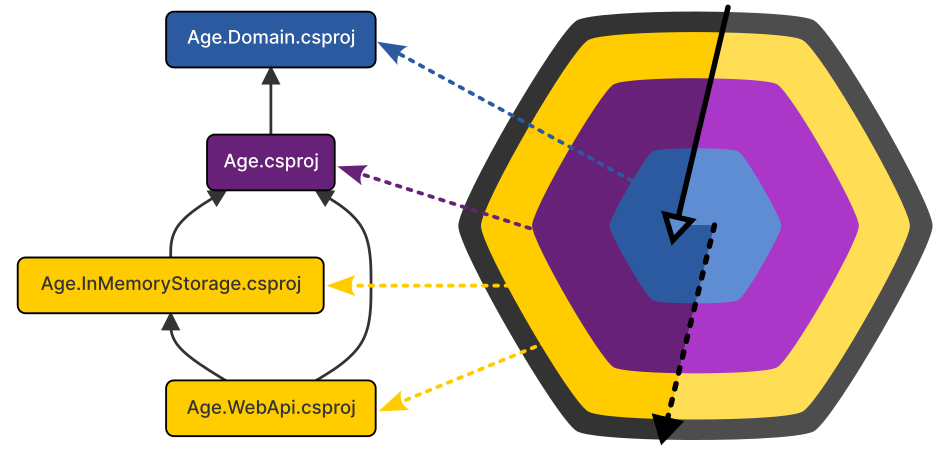
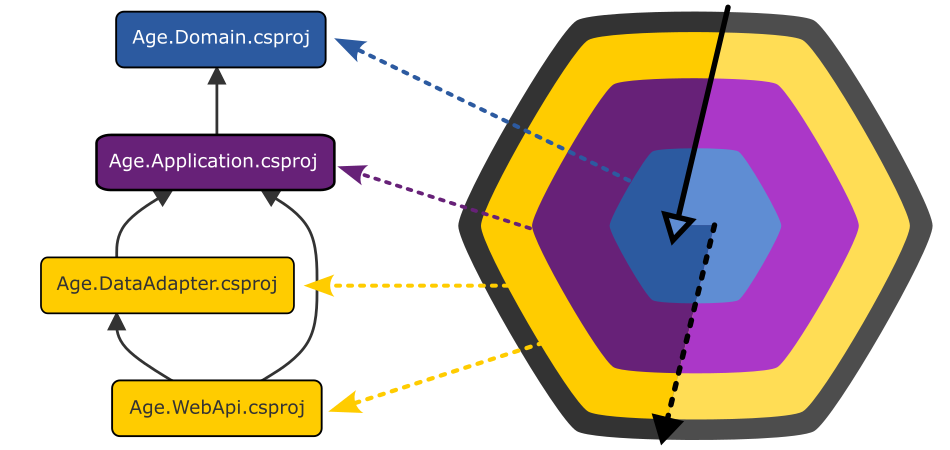
Refatora textos de documentação, exemplos, imagens e gráficos

diff --git a/samples/AgeProject/src/Age.WebApi/Usings.cs b/samples/AgeProject/src/Age.WebApi/Usings.cs
@@ -1,8 +1,12 @@
 global using System;
 global using System.Collections.Generic;
 global using System.Linq;
+global using System.Net.Http.Json;
 
 global using Microsoft.AspNetCore.Builder;
+global using Microsoft.AspNetCore.Http;
+global using Microsoft.AspNetCore.Routing;
+global using Microsoft.Extensions.Configuration;
 global using Microsoft.Extensions.DependencyInjection;
 global using Microsoft.Extensions.Hosting;
 global using Microsoft.Extensions.Logging;

diff --git a/docs/articles/engineering-guidelines/thecheanarch-style.md b/docs/articles/engineering-guidelines/thecheanarch-style.md
@@ -1,6 +1,6 @@
 # Estilo _The Clean Arch_
 
-Antes de continuar, queremos estabelecer primeiro algumas recomendações sobre a codificação de soluções .NET no estilo _"The Clean Arch"_. Vamos falar de pequenos detalhes como: estrutura de diretórios, arquivos de configuração, manuseio de Data/Hora, escrever testes, e outros. Alguns você já conhece se passou pelo [guia de início rápido](../getting-started/create-solution-structure.md), mas queremos consolidá-los nessa seção.
+Antes de continuar, queremos estabelecer primeiro algumas recomendações sobre a codificação de soluções [.NET][DOTNET] no estilo _"The Clean Arch"_. Vamos falar de pequenos detalhes como: estrutura de diretórios, arquivos de configuração, manuseio de Data/Hora, escrever testes, e outros. Alguns você já conhece se passou pelo [guia de início rápido](../getting-started/create-solution-structure.md), mas queremos consolidá-los nessa seção.
 
 Conhecer esses detalhes lhe ajudará a se familiarizar e reconhecer projetos no estilo _"The Clean Arch"_. Então você pode encarar essas recomendações como parte da arquitetura, e compreende o _"Estilo The Clean Arch"_ de codificar.
 
@@ -9,9 +9,9 @@ Conhecer esses detalhes lhe ajudará a se familiarizar e reconhecer projetos no 
 A primeira coisa a se fazer é organizar o diretório de solução para conter nosso código, e você precisa entender alguns detalhes.
 
 > [!IMPORTANT]
-> Quando falamos: **"solução"**, estamos nos referindo ao projeto de software (aquele que tem tipicamente um repositório que armazenamos no [GitHub](https://github.com) por exemplo). Temos os arquivos de projeto do .NET (`*.csproj`, `*.fsproj`, `*.vbproj`), a esses chamamos de **projeto** e as vezes _componente_. A **solução** sempre é o projeto geral do sofware, o repositório Git ou o diretório raiz que contém todo nosso código de software.
+> Quando falamos: **"solução"**, estamos nos referindo ao projeto de software (aquele que tem tipicamente um repositório que armazenamos no [GitHub](https://github.com) por exemplo). Temos os arquivos de projeto do [.NET][DOTNET] (`*.csproj`, `*.fsproj`, `*.vbproj`), a esses chamamos de **projeto** e as vezes _componente_. A **solução** sempre é o projeto geral do sofware, o repositório Git ou o diretório raiz que contém todo nosso código de software.
 
-Essa é a estrutura de diretório para nossas soluções de software .NET:
+Essa é a estrutura de diretório para nossas soluções de software [.NET][DOTNET]:
 ```
 ./solution-folder
   ├─ .config/
@@ -23,7 +23,7 @@ Essa é a estrutura de diretório para nossas soluções de software .NET:
   ├─ test/
   ├─ .editorconfig
   ├─ .gitignore
-  ├─ {Solution}.sln
+  ├─ {Solution}.slnx
   ├─ global.json
   ├─ nuget.config
   └─ omnisharp.json
@@ -31,7 +31,7 @@ Essa é a estrutura de diretório para nossas soluções de software .NET:
 
 Ententendo:
 
-* Arquivo de manifesto para ferramentas .NET `.config/dotnet-tools.json`
+* Arquivo de manifesto para ferramentas [.NET][DOTNET] `.config/dotnet-tools.json`
 * Diretório de documentação da solução `docs/`
 * Diretório de programas de engenharia `eng/`
 * Diretório de amostras `samples/`
@@ -39,8 +39,8 @@ Ententendo:
 * Diretório de testes de componentes `test/`
 * Arquivo de configurações do editor `.editorconfig`
 * Arquivo de definições [Git](https://git-scm.com) para ignorar arquivos `.gitignore`
-* Arquivo geral da solução `{Solution}.sln` (aqui o nome é o da sua solução)
-* Arquivo com configurações globais .NET para a solução `global.json`
+* Arquivo geral da solução `{Solution}.slnx` (aqui o nome é o da sua solução)
+* Arquivo com configurações globais [.NET][DOTNET] para a solução `global.json`
 * Arquivo com configurações globais [NuGet](https://nuget.org) para a solução `nuget.config`
 * Arquivo de definições do [Omnisharp][OMNISHARP] `omnisharp.json`
 
@@ -61,19 +61,18 @@ Portanto, em uma solução nos padrões _The Clean Arch_, temos:
 
 O arquivo geral da solução deve ser nomeado com o nome do projeto de software, porém sem espaços ou caracteres especiais, e obedecendo ao padrão [UpperCamelCase][CAMELCASE].
 
-Exemplo: Para um projeto de software chamado _"Árvore Genealógica"_, o arquivo de solução seria `ArvoreGenealogica.sln`.
+Exemplo: Para um projeto de software chamado _"Árvore Genealógica"_, o arquivo de solução seria `ArvoreGenealogica.slnx`.
 
 > [!NOTE]
 > O próprio projeto de software pode ser apenas um módulo de um projeto maior, ou seja, um subprojeto.
 > Ou ainda, pode ser uma companhia (empresa, grupo ou comunidade) que produz vários projetos de software relacionados.
 > Nestes casos é recomendado usar o nome do projeto principal ou da companhia como prefixo do nome do projeto.
-> Separe o prefixo do nome com um ponto. Ex: `MyProject.MySubproject.sln` ou `MyCompany.MyProject.sln`.
+> Separe o prefixo do nome com um ponto. Ex: `MyProject.MySubproject.slnx` ou `MyCompany.MyProject.slnx`.
 
-O componente (projeto .NET) principal da solução (a camada de aplicação) leva o mesmo nome do arquivo geral da solução, pois representa a aplicação em si. Ex: `ArvoreGenealogica.csproj` para um projeto C#.
-
-Os demais componentes devem ser nomeados com o nome da solução como prefixo, seguido do nome do componente (que muitas vezes reflete a camada do sofware codificada), como `[Prefixo].Componente`.
+Os componentes devem ser nomeados com o nome da solução como prefixo, seguido do nome do componente (que muitas vezes reflete a camada do sofware codificada), como `[Prefixo].Componente`.
 
 Exemplos:
+* `ArvoreGenealogica.Application`
 * `ArvoreGenealogica.Domain`
 * `ArvoreGenealogica.WebApi`
 * `ArvoreGenealogica.Cli`
@@ -86,6 +85,7 @@ Exemplos:
 Os arquivos de teste devem levar o mesmo nome do componente alvo mais o sufixo `Tests`, porém sem um ponto o separando do nome, como `[ComponenteAlvo]Tests`.
 
 Exemplos:
+* `ArvoreGenealogica.ApplicationTests`
 * `ArvoreGenealogica.DomainTests`
 * `ArvoreGenealogica.WebApiTests`
 * `ArvoreGenealogica.CliTests`
@@ -108,3 +108,4 @@ Nos próximos passos você verá ainda mais alguns detalhes sobre nosso estilo d
 [LICENSE]: https://github.com/Hibex-Solutions/TheCleanArch/blob/main/LICENSE
 [CAMELCASE]: https://en.wikipedia.org/wiki/Camel_case
 [OMNISHARP]: https://www.omnisharp.net/
+[DOTNET]: https://dot.net

diff --git a/docs/articles/overview/the-image.md b/docs/articles/overview/the-image.md
@@ -1,6 +1,6 @@
 # A Imagem
 
-Aqui temos a imagem que define o projeto _"The Clean Arch"_. Ela foi criada não apenas para ser usada como uma logo ou ícone, mas como um diagrama que reflete os pontos fundamentais da arquitetura em si. Olhando para ela você deve perceber rapidamente as regras da arquitetura. Ela é um guia da arquitetura em forma de imagem, afinal, _uma imagem não vela mais que mil palavras?_
+Aqui temos a imagem que define o projeto _"The Clean Arch"_. Ela foi criada não apenas para ser usada como uma logo ou ícone, mas como um diagrama que reflete os pontos fundamentais da arquitetura. Olhando para ela você deve perceber rapidamente as regras da arquitetura. Ela é um guia da arquitetura em forma de imagem, afinal, _uma imagem não vela mais que mil palavras?_
 
 ![Imagem guia "The Clean Arch"](../../images/TheCleanArchLogoSmall.png)
 
@@ -14,23 +14,24 @@ Vamos então endender alguns detalhes dessa imagem para que você a possa ter em
 
 Nem todos os pontos desta imagem ficam claros aos leitores, mas ela também foi feita para ser vista como um guia. Aqui temos as camadas em níveis da [Onion Architecture][ONION_PAGE], a regra de dependência explicitada, tanto na comunicação direta para o centro através das setas, quanto a comunicação indireta através de portas e adaptadores da [Hexagonal Architecture][HEXAGONAL_PAGE], além da nomeação das camadas principais da arquitetura.
 
-Se isso não estiver claro, talvez devesse dedicar um tempinho a mais no entendimento tanto do artigo quanto dos links relacionados nele, e que falam sobre as outras definições de arquitetura.
+Se isso não estiver claro, talvez devesse dedicar um tempinho a mais no entendimento tanto do artigo quanto dos _links_ relacionados nele, e que falam sobre as outras definições de arquitetura.
 
 ## Simplificação da imagem
 
-Nós procuramos simplificar essa imagem para que seja mais prático olhar para ela e perceber esses detalhes. Então partimos da imagem original, mas para isso removemos alguns detalhes dela e chegamos a essa imagem como sendo o ponto mais importante na imagem do artigo original:
+Nós procuramos simplificar essa imagem para que seja mais prático olhar para ela e perceber esses detalhes. Então partimos da imagem original, mas para isso removemos alguns detalhes dela e chegamos a essa imagem como sendo o ponto mais importante do artigo original:
 
 ![The Clean Architecture resume image](../../images/TheCleanArchitectureOriginalSmall.png)
 
-Esse imagem acima talvez seja o resumo da _Arquitetura Limpa_ conforme a maioria se baseia para implementar. Mas por ironia ela acaba referenciando quase que diretamente uma das definições que se conhece e que o _Uncle Bob_ se baseou. Estou falando da [_Onion Architecture (arquitetura cebola)_][ONION_PAGE], e acaba deixando de fora alguns outros detalhes que nós entendemos muito importantes.
+Essa imagem anterior talvez seja o resumo da _Arquitetura Limpa_ conforme a maioria se baseia para implementar. Mas por ironia ela acaba referenciando quase que diretamente uma das definições que se conhece e que o _Uncle Bob_ se baseou. Estou falando da [_Onion Architecture (arquitetura cebola)_][ONION_PAGE], e acaba deixando de fora alguns outros detalhes que nós entendemos muito importantes.
 
-Ela também não é completa, está faltando essa outra imagem, que na verdade está presente em um cantinho da imagem original.
+Ela também não é completa, está faltando essa outra imagem, que na verdade está presente em um cantinho na imagem original.
 
 ![](../../images/TheCleanArchitectureBlogImageCorner.png)
 
 Ela representa a comunicação indireta entre as camadas internas com as camadas externas através de portas e adaptadores descritas pelas definições da [Hexagonal Architecture][HEXAGONAL_PAGE], também conhecida como _Ports and Adapters_.
 
-Então o que fizemos foi simplificar a imagem nessa aqui, que reune essas duas primeiras imagens em uma única imagem:
+Então o que fizemos foi uní-las ([_Onion Architecture_][ONION_PAGE] + [Hexagonal Architecture][HEXAGONAL_PAGE]), e
+obtemos agora uma única imagem que tenta representar ambos os conceitos:
 
 ![The Clean Arch with original colors](../../images/TheCleanArchLogo-OriginalColorsSmall.png).
 
@@ -42,9 +43,9 @@ Por fim mudamos as cores porque temos gostos diferentes (kkk), e então chegamos
 
 Você deve olhar para essa imagem e perceber as seguintes regras arquiteturais base:
 
-1) Existem camadas dispostas concentricamente (como define "Onion Architecture")
+1) Existem camadas dispostas concentricamente (como define [_Onion Architecture_][ONION_PAGE])
 2) É permitida a comunicação direta das camadas mais externas em direção ao centro
-3) A comunicação partindo do centro às extremidades é feita de forma indireta (como define "Hexagonal Architecture")
+3) A comunicação partindo do centro às extremidades é feita de forma indireta (como define [Hexagonal Architecture][HEXAGONAL_PAGE])
 4) As camadas são identificadas pelas cores relacionadas a seus nomes
 
 Esses são os nomes e cores das camadas como as definimos, partindo do centro para a extremidade:

diff --git a/docs/articles/getting-started/create-solution-structure.md b/docs/articles/getting-started/create-solution-structure.md
@@ -1,6 +1,6 @@
 # 1. Crie a estrutura da solução
 
-A maneira mais prática de usar _The Clean Arch_ é criar uma solução nos moldes que se propõe. Então aqui iremos criar uma solução .NET em camadas para que você esteja apto a conhecer melhor cada componente da arquitetura em seus detalhes.
+A maneira mais prática de usar _The Clean Arch_ é criar uma solução nos moldes que se propõe. Então aqui iremos criar uma solução [.NET][DOTNET] em camadas para que você esteja apto a conhecer melhor cada componente da arquitetura em seus detalhes.
 
 À partir de agora vamos trabalhar tendo em mente uma aplicação para controle de nossa [árvore genealógica.][ARVORE_GENEALOGICA]. A princípio vamos trabalhar na construção de uma _API Web_, mas poderia ser qualquer outro tipo de aplicação. Vamos então chamar nossa solução de _"Árvore Genealógica"_, a que podemos usar o _token_ _"ArvoreGenealogica"_ para identificar ou ainda _"Age"_ para ser mais curto.
 
@@ -34,8 +34,8 @@ Crie alguns arquivos essenciais. Configuração [NuGet][NUGET], [Git][GIT], [edi
 
 
 ```sh
-dotnet new nugetconfig
 dotnet new globaljson --sdk-version "10.0.100" --roll-forward feature
+dotnet new nugetconfig
 dotnet new gitignore
 dotnet new editorconfig
 dotnet new tool-manifest
@@ -74,7 +74,7 @@ dotnet new classlib -n Age.Domain -o src/Age.Domain
 ```
 
 ### Application
-Nossa camada de regras de aplicação se chamará **Age** apenas, porque é a aplicação em si.
+Nossa camada de regras de aplicação se chamará **Age.Application**.
 ```sh
 dotnet new classlib -n Age.Application -o src/Age.Application
 ```
@@ -84,7 +84,7 @@ dotnet new classlib -n Age.Application -o src/Age.Application
 > [!NOTE]
 > Os adaptadores de interface podem ser tantos quanto você precisar. Aqui usaremos apenas 2 componentes adaptadores: 1) a camada de apresentação como um adaptador de interface para entrada dos dados, e 2) a camada de acesso a dados como adaptador de interface para saída de dados.
 
-Um adaptador de interface para armazenamento de dados chamado **Age.DataAdapter** e um adaptador de interface para API Web chamado **Age.WebApi**.
+Um adaptador de interface para armazenamento de dados chamado **Age.DataAdapter** e um adaptador de interface para _API Web_ chamado **Age.WebApi**.
 
 ```sh
 dotnet new classlib -n Age.DataAdapter -o src/Age.DataAdapter
@@ -96,10 +96,10 @@ Agora vamos relacionar esses projetos entre si de acordo com suas dependências.
 ```mermaid
 flowchart BT
 
-Application(Age.Application.csproj)
-Domain(Age.Domain.csproj)
-DataAdapter(Age.DataAdapter.csproj)
-WebApi(Age.WebApi.csproj)
+Application(Age.Application)
+Domain(Age.Domain)
+DataAdapter(Age.DataAdapter)
+WebApi(Age.WebApi)
 
 
 Application --> Domain
@@ -109,15 +109,15 @@ WebApi --> DataAdapter
 ```
 
 ```sh
-dotnet add src/Age.Application/Age.Application.csproj reference src/Age.Domain/Age.Domain.csproj
-dotnet add src/Age.DataAdapter/Age.DataAdapter.csproj reference src/Age.Application/Age.Application.csproj
 dotnet add src/Age.WebApi/Age.WebApi.csproj reference src/Age.DataAdapter/Age.DataAdapter.csproj
 dotnet add src/Age.WebApi/Age.WebApi.csproj reference src/Age.Application/Age.Application.csproj
+dotnet add src/Age.DataAdapter/Age.DataAdapter.csproj reference src/Age.Application/Age.Application.csproj
+dotnet add src/Age.Application/Age.Application.csproj reference src/Age.Domain/Age.Domain.csproj
 ```
 
 ## Arquivo de solução
 
-Por fim, vamos reunir todos os componentes em um arquivo de solução .NET.
+Por fim, vamos reunir todos os componentes em um arquivo de solução [.NET][DOTNET].
 
 ```sh
 dotnet new sln -n Age -f slnx
@@ -159,12 +159,12 @@ Agora veja como a relação entre o gráfico de dependências de nossos projetos
 
 ![Visão The Clean Arch](../../images/getting-started/thecleanarch-and-layers.png)
 
-Meus parabéns :clap: :clap: !!! Você acaba de criar um esboço de solução .NET de arquitetura limpa de acordo com _"The Clean Arch"_ :wink:.
+Meus parabéns! Você acaba de criar um esboço de solução [.NET][DOTNET] com arquitetura limpa de acordo com _"The Clean Arch"_ :wink:.
 
 > [!TIP]
 > Veja um [exemplo completo dessa solução no GitHub][AGE_SAMPLE_GITHUB]
 
-Óbvio que isso não é tudo. Porém o primeiro passo para que você desenvolva de acordo com uma definição de _"Arquitetura Limpa"_, é estruturar seu projeto de software de forma a codificar nas camadas corretas e que essas camadas estejam dispostas de forma a seguir os princípios estabelecidos por _"The Clean Arch"_. Você aprenderá mais nos próximos passos.
+Óbvio que isso não é tudo. Porém o primeiro passo para que você desenvolva de acordo com uma definição de _"Arquitetura Limpa"_ é estruturar seu projeto de software de forma a codificar nas camadas corretas e que essas camadas estejam dispostas de forma a seguir os princípios estabelecidos por _"The Clean Arch"_. Você aprenderá mais nos próximos passos.
 
 [ARVORE_GENEALOGICA]: https://pt.wikipedia.org/wiki/%C3%81rvore_geneal%C3%B3gica
 [DOTNET]: https://dot.net

diff --git a/docs/articles/overview/introduction.md b/docs/articles/overview/introduction.md
@@ -4,20 +4,20 @@ O termo _Clean Architecture_ (Arquitetura Limpa) foi cunhado inicialmente por _R
 
 Vale ressaltar que _Uncle Bob_ se vale da definição e trabalhos feitos por outras pessoas como _Alistair Cockburn_ e sua [Hexagonal Architecture][HEXAGONAL_PAGE] (também conhecida como _Ports and Adapters_), ou _Jeffrey Palermo_ e a [Onion Architecture][ONION_PAGE]. _Uncle Bob_, concordando com os pontos de vista desses e de outros também ([veja as menções no próprio artigo][BLOG_POST]), acrescenta suas próprias ideias como [Screaming Architecture][SCREAMING_POST], além de resumir bem todas elas juntas nesse [compilado que postou em seu blog][BLOG_POST]. Você vai encontrar mais detalhes ainda sobre o assunto no livro do próprio _Uncle Bob_ entitulado [_"Arquitetura Limpa - O Guia do Artesão para Estrutura e Design de Software"_][BOOK_AMAZON], e lá você encontra o restante das informações que precisa.
 
-O fato é que essas ideias são a base para o que implementamos aqui no projeto _"The Clean Arch"_. Pretendemos ser um ponto de partida seguro, e quiçá uma referência para você implementar seus softwares sob esses fundamentos no que diz respeito a arquitetura de software. Inicialmente focado em [.NET][DOTNET], mas pretendemos expandir para outras tecnologias, porque entendemos que o conceito é independente de tecnologia.
+O fato é que essas ideias são a base para o que implementamos aqui no projeto _"The Clean Arch"_. Pretendemos ser um ponto de partida seguro, e talvez uma referência para você implementar seus softwares sob esses fundamentos no que diz respeito a arquitetura de software. Inicialmente focado em [.NET][DOTNET], mas pretendemos expandir para outras tecnologias, porque entendemos que o conceito é independente de tecnologia.
 
-Sabemos que existem inúmeras implementações já disponíveis na Web. Sabemos também que existem muitas formas de fazer a mesma coisa, e uma não torna a outra incorreta, apenas são diferentes entre si. Não podemos deixar de mencionar que  existem muitos equívocos em algumas implementações que estão disponíveis também, mas a grande maioria está de acordo com os princípios. Talvez cometamos alguns equívocos aqui também em nossas definições, mas estamos prontos a voltar atrás e corrigir o que for necessário, logo, esteja à vontade para nos ajudar com isso.
+Sabemos que existem inúmeras implementações já disponíveis na _Web_. Sabemos também que existem muitas formas de fazer a mesma coisa, e uma não torna a outra incorreta, apenas diferentes. Não podemos deixar de mencionar que  existem muitos equívocos em algumas implementações que estão disponíveis também, mas a grande maioria está de acordo com os princípios. Talvez cometamos alguns equívocos aqui também em nossas definições, mas estamos prontos a voltar atrás e corrigir o que for necessário, logo, esteja à vontade para nos ajudar com isso.
 
 Podemos concordar então que o projeto _"The Clean Arch"_ é apenas mais uma dessas implementações. Talvez o que tenhamos de diferente seja o fato de que queremos disponibilizar essa implementação da seguinte forma:
 
 1) Totalmente _Open Source_
 2) Uma documentação como _Guia_
 3) Um conjunto _Mínimo de Bibliotecas_ para viabilizar a implementação
-4) Um conjunto de _Ferramentas_ para verificações
+4) Um conjunto de _Ferramentas_ para validações
 
 Então resumimos o projeto _"The Clean Arch"_ como um **Guia Open Source com Mínimo de Bibliotecas e Ferramentas** para implementar _"The Clean Architecture"_ conforme _Uncle Bob_ definiu em seu artigo.
 
-Então seja bem vindo(a) a documentação para _"The Clean Arch"_, aqui você aprenderá tanto a usar as bibliotecas e as ferramentas do projeto, quanto aprenderá sobre _"Arquitetura Limpa"_ em si. Aprecie o conteúdo sem moderação!
+Então seja bem vindo(a) a documentação _"The Clean Arch"_, aqui você aprenderá tanto a usar as bibliotecas e as ferramentas do projeto, quanto aprenderá sobre _"Arquitetura Limpa"_. Aprecie o conteúdo sem moderação!
 
 <!-- links -->
 [BLOG_POST]: https://blog.cleancoder.com/uncle-bob/2012/08/13/the-clean-architecture.html

diff --git a/docs/articles/engineering-guidelines/time-abstraction.md b/docs/articles/engineering-guidelines/time-abstraction.md
@@ -3,7 +3,7 @@
 À partir do [.NET 8][NET8] [a abstração de tempo][NET8-TIMEABSTRACTION] foi incorporada ao framework, não havendo mais necessidade de usar abstrações próprias.
 
 As bibliotecas _The Clean Arch_ são feitas para funcionar à partir do [.NET 6][NET6],
-e para não incluir mais uma abstração própria, o componente `TheCleanArch.Core` depende de [Microsoft.Bcl.TimeProvider][BCL-TIMEPROVIDER]. Dessa forma você pode simplesmente utilizar as abstrações de tempo conforme [documentação oficial do framework][NET8-TIMEABSTRACTION] mesmo que não esteja utilizando [.NET 8][NET8] ainda.
+e para não incluir mais uma abstração própria, o componente `TheCleanArch.Core` depende de [Microsoft.Bcl.TimeProvider][BCL-TIMEPROVIDER]. Dessa forma você pode simplesmente utilizar as abstrações de tempo conforme [documentação oficial do framework][NET8-TIMEABSTRACTION] mesmo que não esteja utilizando [.NET 10][NET10] ainda.
 
 > [!WARNING]
 > Não use mais `DateTime.UtcNow()` diretamente!
@@ -40,5 +40,6 @@ class Mclass MyClass
 
 [NET6]: https://learn.microsoft.com/pt-br/dotnet/core/whats-new/dotnet-6
 [NET8]: https://learn.microsoft.com/pt-br/dotnet/core/whats-new/dotnet-8
+[NET10]: https://learn.microsoft.com/pt-br/dotnet/core/whats-new/dotnet-10/overview
 [NET8-TIMEABSTRACTION]: https://learn.microsoft.com/pt-br/dotnet/core/whats-new/dotnet-8/runtime#time-abstraction
 [BCL-TIMEPROVIDER]: https://www.nuget.org/packages/Microsoft.Bcl.TimeProvider

diff --git a/docs/articles/getting-started/enable-code-editors.md b/docs/articles/getting-started/enable-code-editors.md
@@ -5,7 +5,7 @@ Se você usa uma IDE rica em recursos como [Microsoft Visual Studio][VISUALSTUDI
 > [!TIP]
 > Encare isso como uma recomendação arquitetural _The Clean Arch_!
 
-E é para que o código funcione adequadamente em qualquer um desses seus ambientes de desenvolvimento que sugerimos que todas as soluções tenham os arquivos `global.json`, `nuget.config`, `.editorconfig` e `.config/dotnet-tools.json`. Porque eles controlam de forma padronizada cada aspecto relevante do projeto, e faz com que a experiência de codificação seja como esperada usando quaisquer dessas ferramentas, por serem padrões de mercado. Mas nos falta ainda um arquivo, o `omnisharp.json`.
+E é para que o código funcione adequadamente em qualquer um desses seus ambientes de desenvolvimento que sugerimos que todas as soluções tenham os arquivos `global.json`, `nuget.config`, `.editorconfig` e `.config/dotnet-tools.json`. Porque eles controlam de forma padronizada cada aspecto relevante do projeto, e faz com que a experiência de codificação seja como esperada usando quaisquer dessas ferramentas por serem padrões de mercado. Mas nos falta ainda um arquivo, o `omnisharp.json`.
 
 ## O arquivo de configuração do Omnisharp
 

diff --git a/docs/articles/getting-started/enable-unit-testing.md b/docs/articles/getting-started/enable-unit-testing.md
@@ -19,11 +19,11 @@ Habilite o executor de testes MTP no arquivo `global.json`.
 }
 ```
 
-Crie os projetos de teste de componente.
+Crie os projetos de teste para cada componente.
 
 ```sh
 # Se ainda não tem os templates TUnit
-dotnet new install TUnit.Templates
+# dotnet new install TUnit.Templates
 
 # Criando os projetos
 dotnet new TUnit -n Age.ApplicationTests -o test/Age.ApplicationTests
@@ -110,7 +110,7 @@ Porfim instale a ferramenta [Report Generator][REPORT_GENERATOR] como dependênc
 dotnet tool install dotnet-reportgenerator-globaltool
 ```
 
-Para saber mais sobre o uso da ferramenta Report Generator use `dotnet reportgenerator -h` ou acesse o [site da ferramenta][REPORT_GENERATOR].
+Para saber mais sobre o uso da ferramenta _Report Generator_ use `dotnet reportgenerator -h` ou acesse o [site da ferramenta][REPORT_GENERATOR].
 
 Pronto! Agora você está habilitado para usar [TDD][TDD] no seu dia a dia. Inclusive essa é outra recomendação _The Clean Arch_.
 

diff --git a/docs/articles/getting-started/simplifying.md b/docs/articles/getting-started/simplifying.md
@@ -1,7 +1,7 @@
 # Simplificando as coisas
 
 Por sorte, tudo que você acabou de fazer dos passos 1 ao 4, você não precisá repetir
-no seu dia a dia. Sabemos esses pequenos detalhes são coisas que podemos esquecer no
+no seu dia a dia. Sabemos que esses pequenos detalhes são coisas que podemos esquecer no
 dia a dia se precisarmos repetir muitas vezes, porém é muito importante entendê-los
 e saber porque existem. Por isso fizemos questão de mostrar como fazer tudo manualmente.
 
